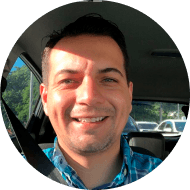
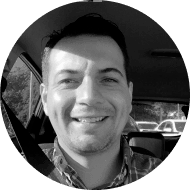
replace gabriel and adjust styles

diff --git a/index.html b/index.html
@@ -204,7 +204,7 @@
 
         <!-- regressive-counter -->
         <section id="regressive-counter" class="section regressive-counter">
-            <div class="wrapper wrapper--centered-content regressive-counter__wrapper wrapper--row-gap--normal">
+            <div class="wrapper wrapper--centered-content regressive-counter__wrapper wrapper--row-gap--small">
 
                 <div>
                     <h2 class="title title--level-4">
@@ -245,7 +245,7 @@
                     </tr>
                 </table>
 
-                <div class="">
+                <div class="regressive-counter__cta">
                     <button onclick="javascript: window.scrollTo(0, 0);" class="button button--large button--secondary">
                         Quero me inscrever
                     </button>
@@ -318,21 +318,21 @@
                         <article class="card">
 
                             <section class="card__header">
-                                <img class="card__image" src="assets/images/image-gabriel.png" alt="Gabriel Martins">
+                                <img class="card__image" src="assets/images/image-lucas.png" alt="Lucas Brito">
                             </section>
                     
                             <section class="card__body">
 
                                 <h4 class="title title--level-4">
-                                    Gabriel Martins
+                                    Lucas Brito
                                 </h4>
 
                                 <p class="text">
-                                    Empreendedor, trabalha com a construção da base interna do sucesso através da Hipnoterapia, abordando assuntos como procrastinação e ansiedade.
+                                    Empreendedor do segmento fitness, consultor de negócios, founder da Gymlion gestão esportiva.
                                 </p>
 
                                 <p class="text text-on-primary--hi">
-                                    @gabrielmartinsag
+                                    @brito_cross
                                 </p>
                     
                             </section>

diff --git a/assets/scss/_custom.scss b/assets/scss/_custom.scss
@@ -199,10 +199,11 @@
 
 .card__image {
     border-radius: 50%;
+    border: 10px solid rgba(255, 255, 255, 0.25);
 }
 
 .card__image:hover {
-    filter: grayscale(80%);
+    filter: sepia(70%);
     transition: all 0.5s;
 }
 
@@ -263,6 +264,17 @@
         column-gap: var(--space);
     }
 }
+
+.regressive-counter__cta {
+    display: none;
+}
+@media screen and (min-width: 1200px) {
+    .regressive-counter__cta {
+        display: block;
+    }
+}
+
+
 
 .numero {
     display: grid;
